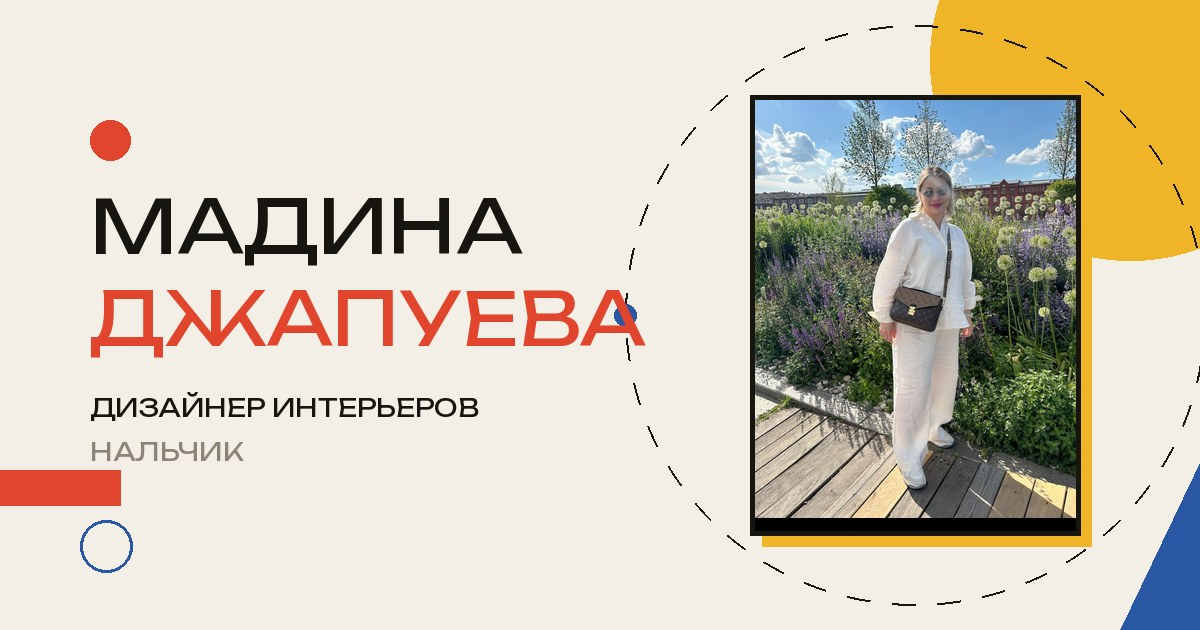
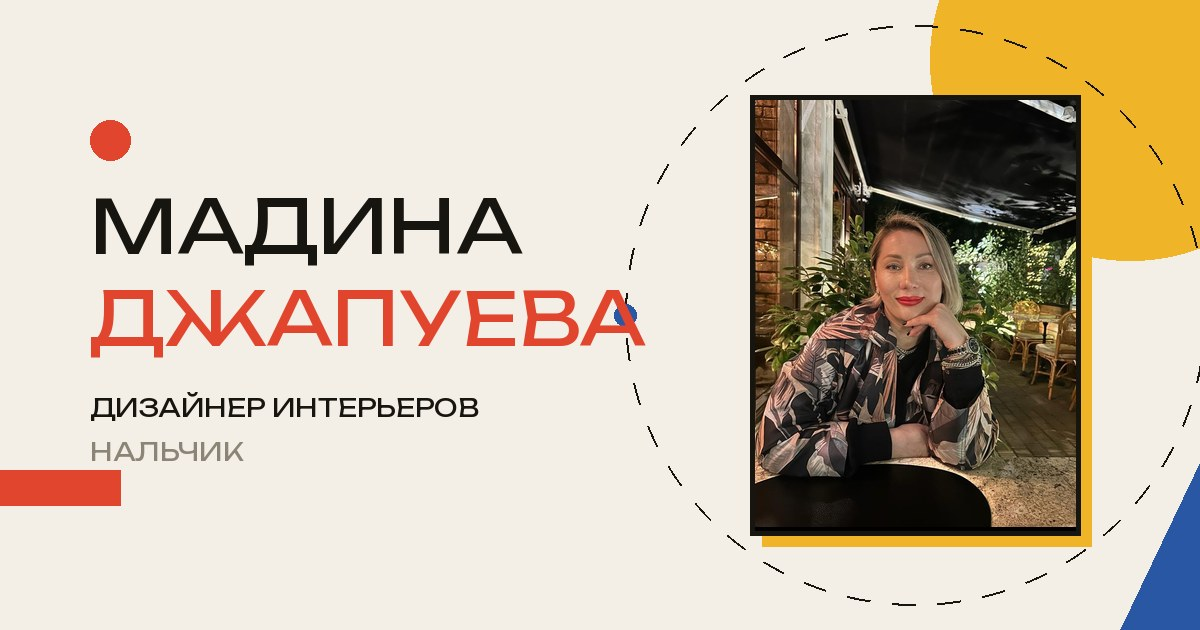
Вечерние фото вместо белого костюма + шторка «крыши мира» (#6)
Two changes the owner asked for:

- All photos where she wears the white outfit are gone; the three
  evening portraits (dark jacket) are used in the hero and about
  sections instead. OG image regenerated accordingly.

- New CultureCurtain component: a fixed strip at the bottom edge
  with a black silhouette skyline of rooftops from different
  cultures (onion-dome church, European gables, pagoda, minaret
  and dome, Chinese upturned roof, Caucasian tower, yurt,
  A-frame). The skyline slowly slides; pointing the mouse at the
  curtain (or tapping the handle on touch screens) slides it open,
  revealing a counter-scrolling ribbon of world alphabets —
  Cyrillic, Latin, Greek, Arabic, Japanese, Korean, Chinese,
  Georgian, Armenian, Hebrew. Body gets bottom padding so the
  collapsed curtain never hides the footer.

Claude-Session: https://claude.ai/code/session_01Ccd8ZSuG2rniQ5VHFKt1mY

Changed region(s): [[0.6167, 0.1508, 0.8942, 0.8444], [0.0617, 0.8143, 0.1233, 0.9048]]

diff --git a/src/styles/global.css b/src/styles/global.css
@@ -44,6 +44,8 @@ body {
   line-height: 1.75;
   -webkit-font-smoothing: antialiased;
   overflow-x: hidden;
+  /* Отступ под фиксированную «шторку» с крышами у нижней кромки. */
+  padding-bottom: 58px;
 }
 
 img,
